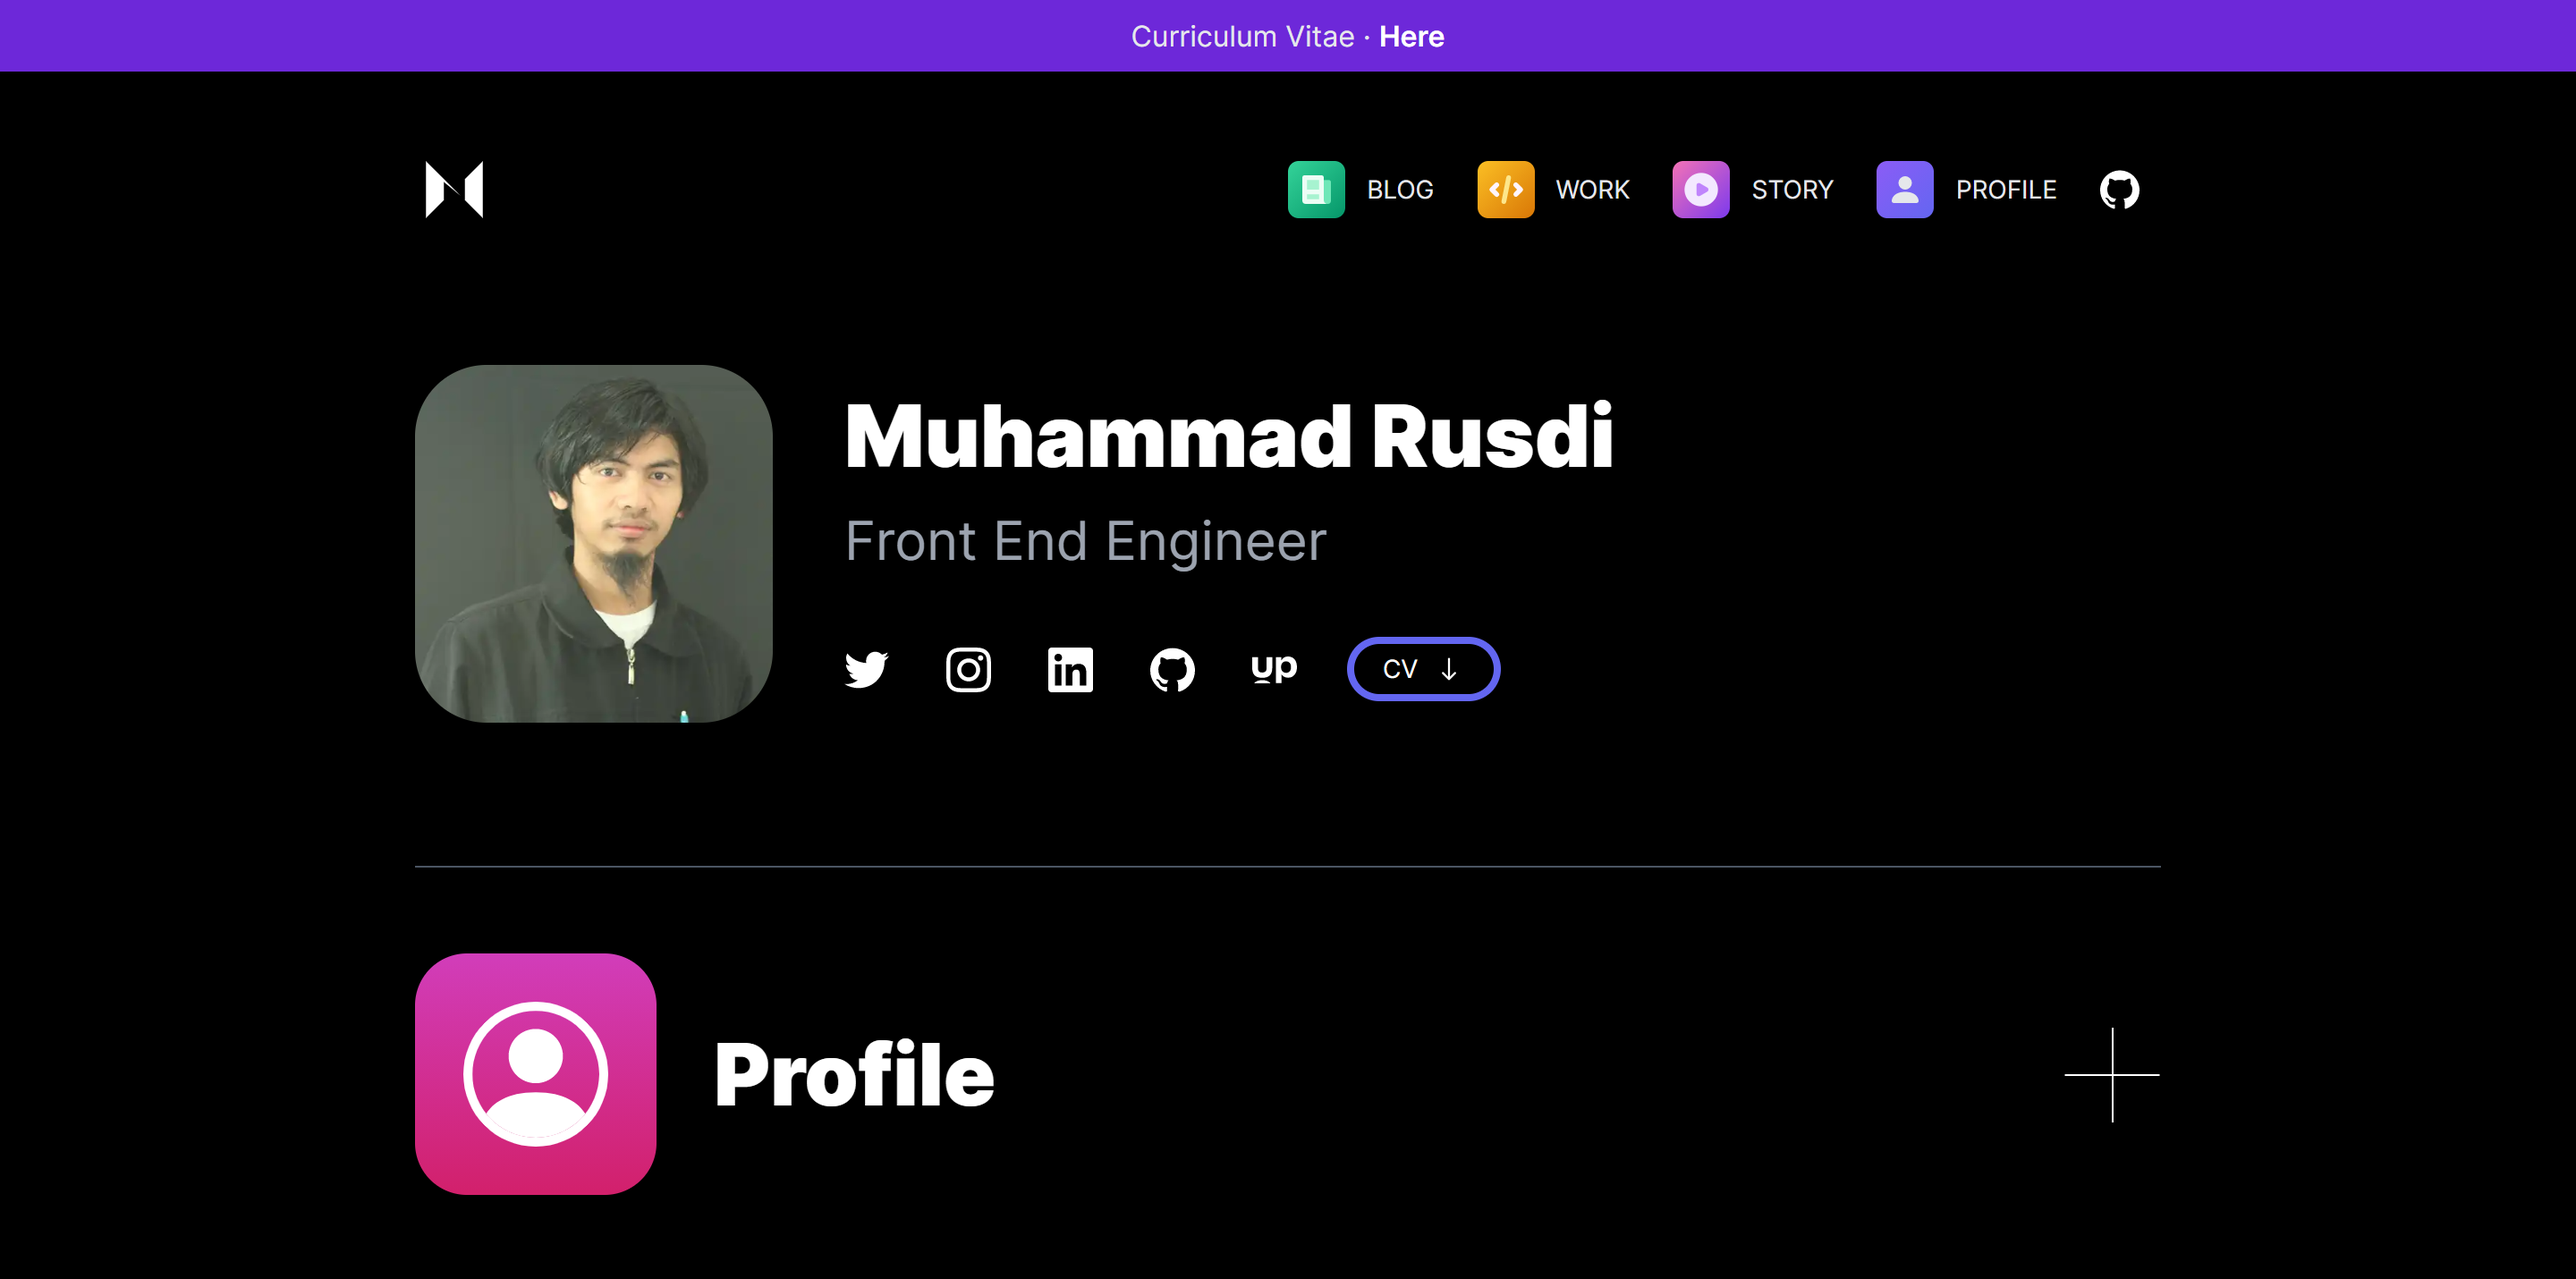
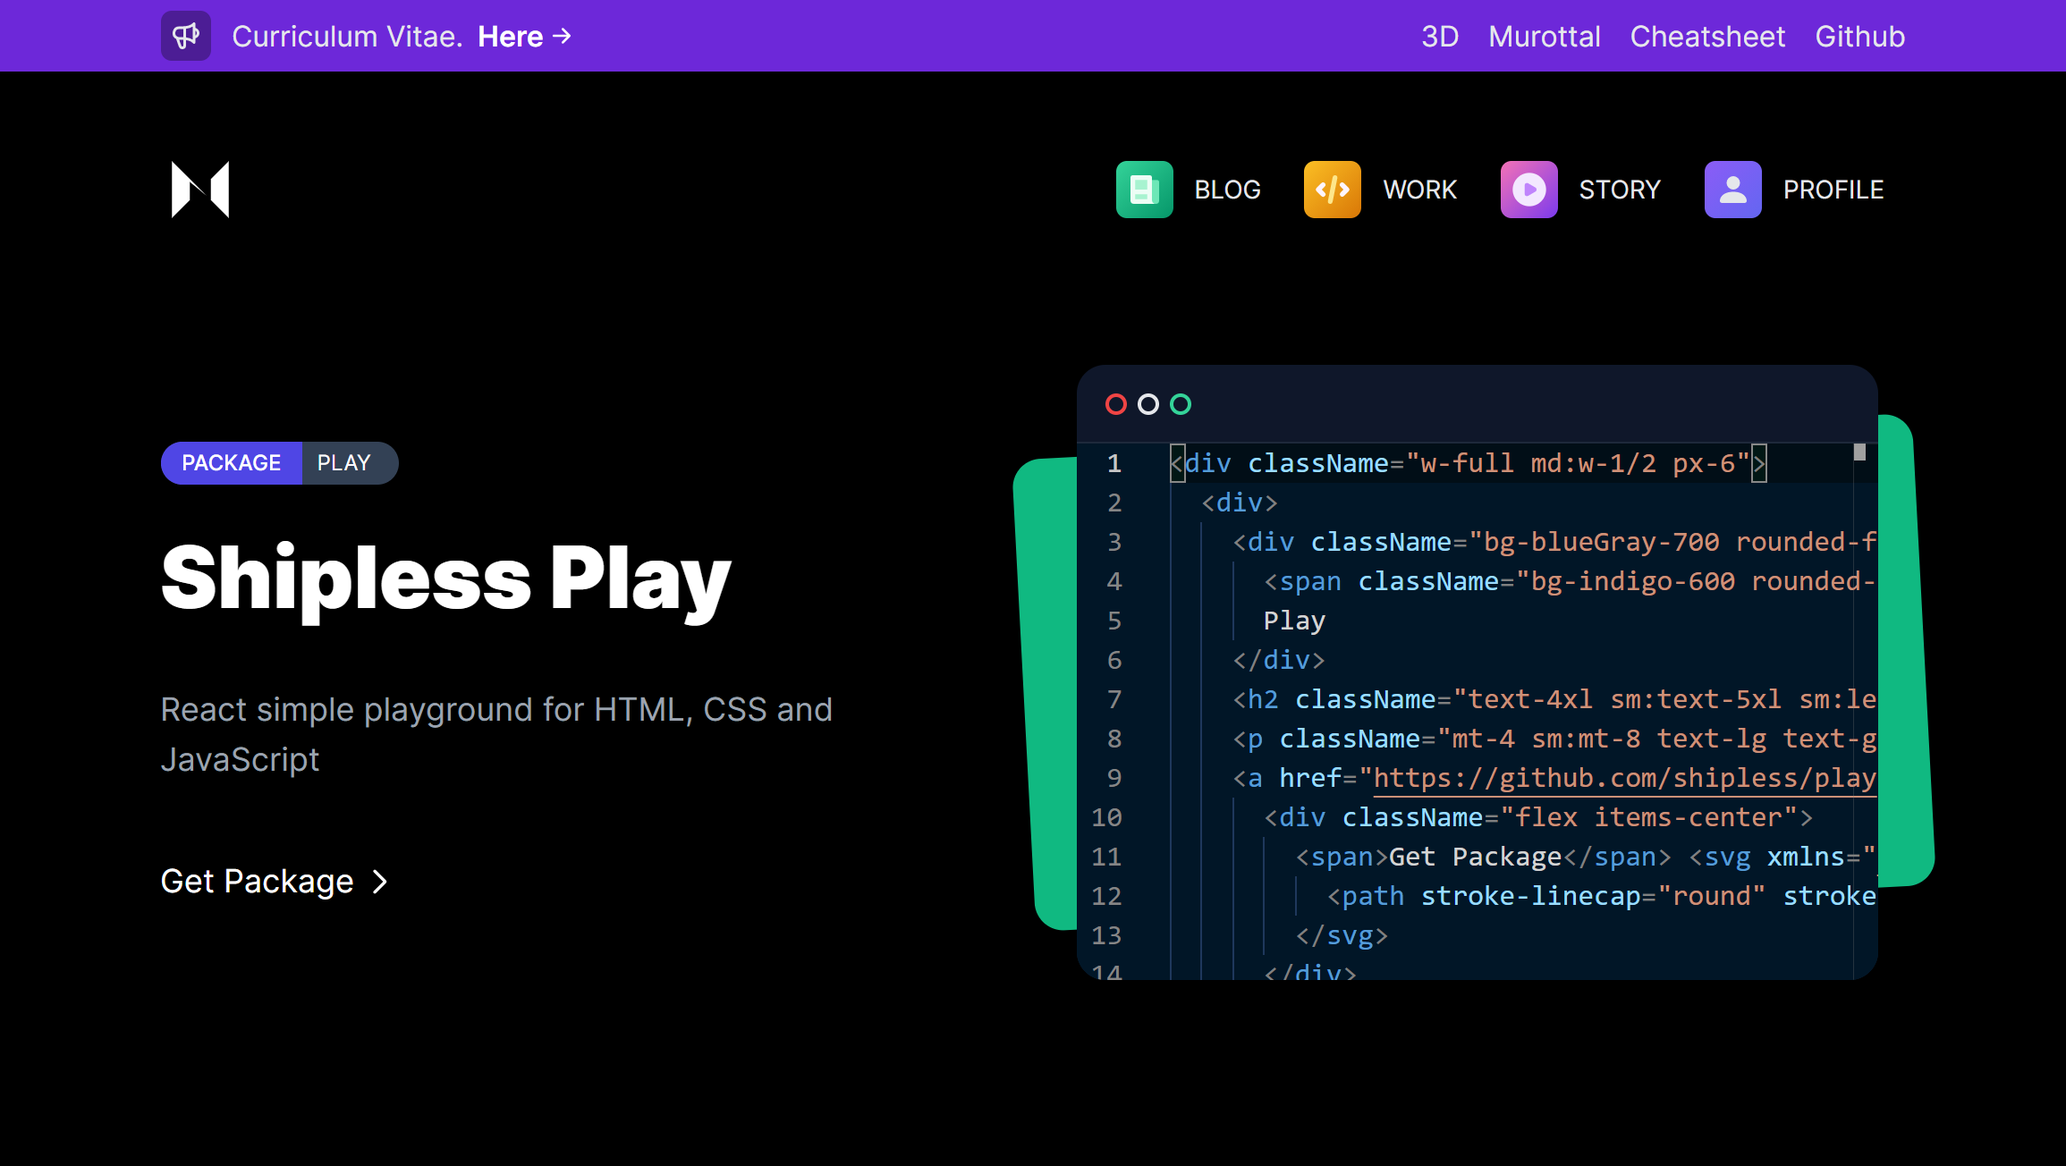
update cover

diff --git a/src/components/playcode/index.tsx b/src/components/playcode/index.tsx
@@ -65,7 +65,7 @@ const PlayCode: React.FC = () => {
     <div className="md:flex -mx-6 items-center">
       {parse(value)}
       <div className="w-full sm:w-1/2 px-6 mt-12 sm:mt-0">
-        <EditorStyled>
+        <EditorStyled className="sm:pr-4">
           <div className="relative z-20">
             <div className="relative w-full flex flex-col bg-blueGray-900 rounded-2xl overflow-hidden">
               <div className="flex-none h-11 flex items-center px-4 border-b border-blueGray-800">

diff --git a/src/pages/index.tsx b/src/pages/index.tsx
@@ -87,7 +87,7 @@ const Home: React.FC = () => {
         <div className="py-8">
           <PlayCode/>
         </div>
-        <div className="mt-24 sm:mt-32">
+        <div className="mt-24">
           <SectionHeader
             tag="Blogs"
             title="Helpful Resources"

diff --git a/src/components/playcode/styled.ts b/src/components/playcode/styled.ts
@@ -15,7 +15,7 @@ export const EditorStyled = styled.div`
     border-radius: 16px;
     @media (min-width: 640px) {
       left: -30px;
-      right: -30px;
+      right: -10px;
     }
   }
   /* &:before {
